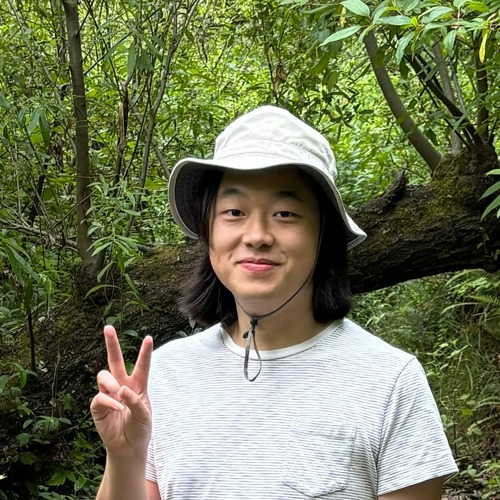
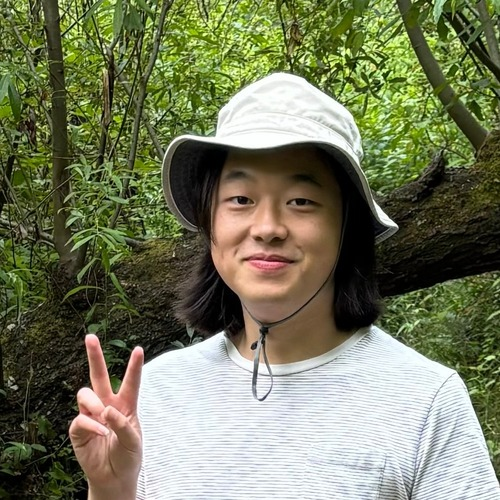
standardize image names

diff --git a/_staffers/james_geronimo.md b/_staffers/james_geronimo.md
@@ -3,7 +3,7 @@ name: James Geronimo
 role: UCS1
 email: jegeronimo@berkeley.edu
 website: 
-photo: http://ds100.org/su24/resources/assets/staff_pics/James_Geronimo_500x500 - James Geronimo.jpg
+photo: http://ds100.org/su24/resources/assets/staff_pics/James_Geronimo.jpg
 pronouns: he/him
 ---
 Hello! I'm a rising junior studying CS and Data Science. Outside of school, I enjoy playing basketball, volleyball, video games, and listening to music. Looking forward to meeting you all!
